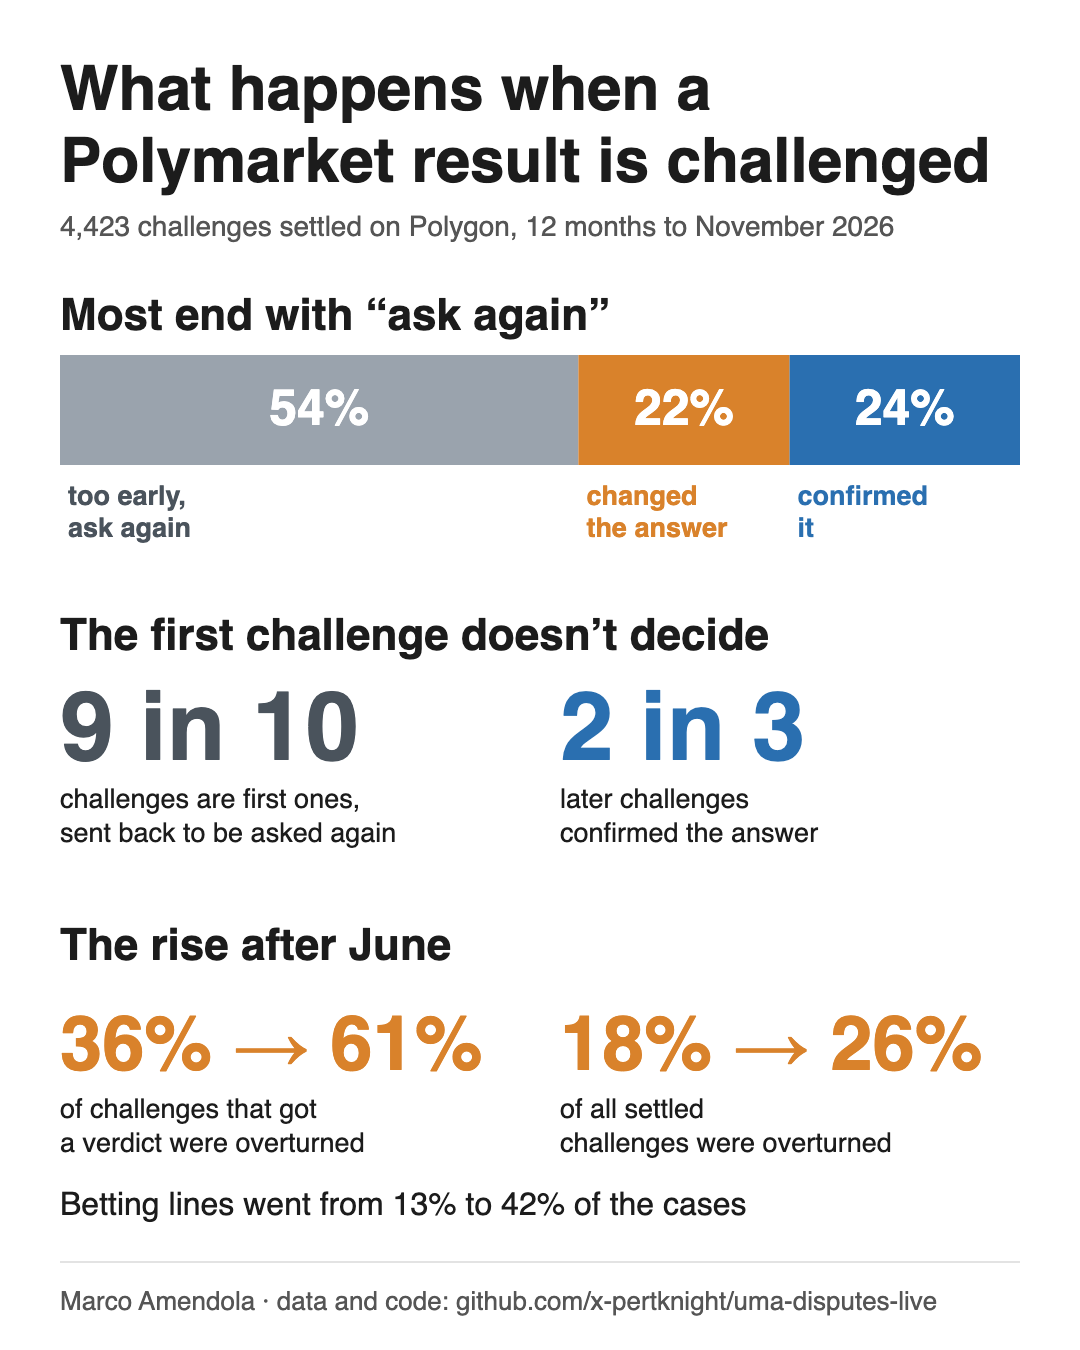
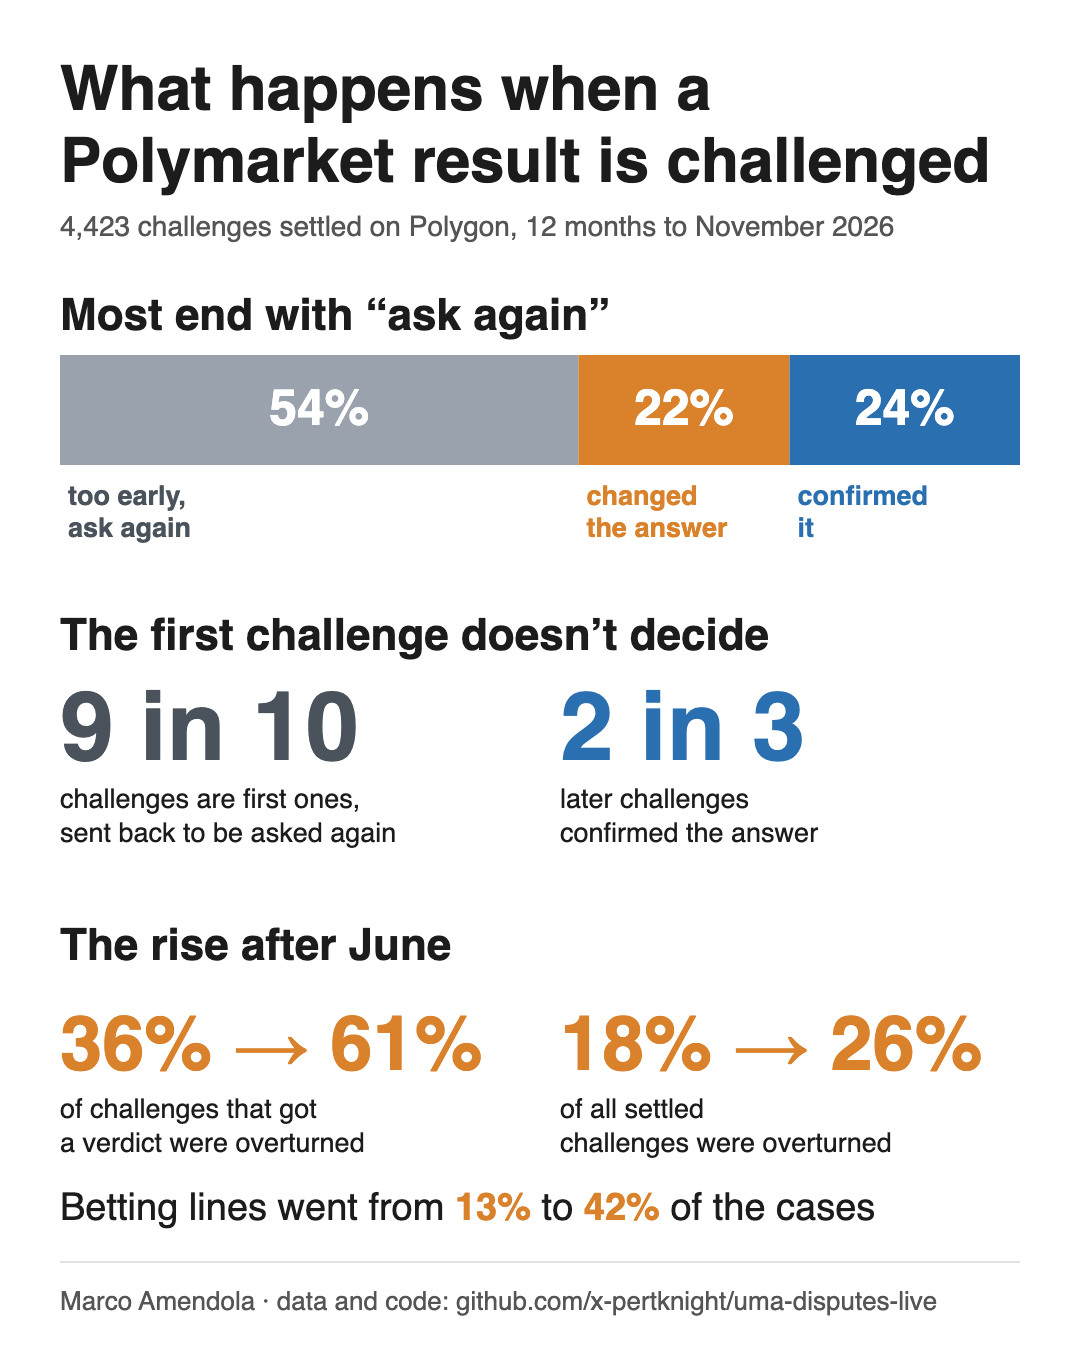
Summary chart: readability

Changed region(s): [[0.0611, 0.8711, 0.825, 0.9022]]

diff --git a/charts.py b/charts.py
@@ -204,7 +204,10 @@ def chart_summary():
     for cx, a, b, l1, l2 in [(m, v["verdict_before"], v["verdict_after"], "of challenges that got", "a verdict were overturned"),
                              (m + 500, v["all_before"], v["all_after"], "of all settled", "challenges were overturned")]:
         p += [text(cx, 1070, f"{a}% → {b}%", 76, C_OVER, weight="bold"), text(cx, 1118, l1, 27, INK), text(cx, 1152, l2, 27, INK)]
-    p.append(text(m, 1215, f"Betting lines went from {v['lines_before']}% to {v['lines_after']}% of the cases", 32, INK))
+    # Same size family as the section text, percentages bold in the figure orange
+    p.append(f'<text x="{m}" y="1220" font-size="38" fill="{INK}">Betting lines went from '
+             f'<tspan font-weight="bold" fill="{C_OVER}">{v["lines_before"]}%</tspan> to '
+             f'<tspan font-weight="bold" fill="{C_OVER}">{v["lines_after"]}%</tspan> of the cases</text>')
     p.append(f'<line x1="{m}" x2="{w - m}" y1="1262" y2="1262" stroke="{GRID}" stroke-width="2"/>')
     p.append(text(m, 1310, "Marco Amendola · data and code: github.com/x-pertknight/uma-disputes-live", 26, SOFT))
     p.append("</svg>")
